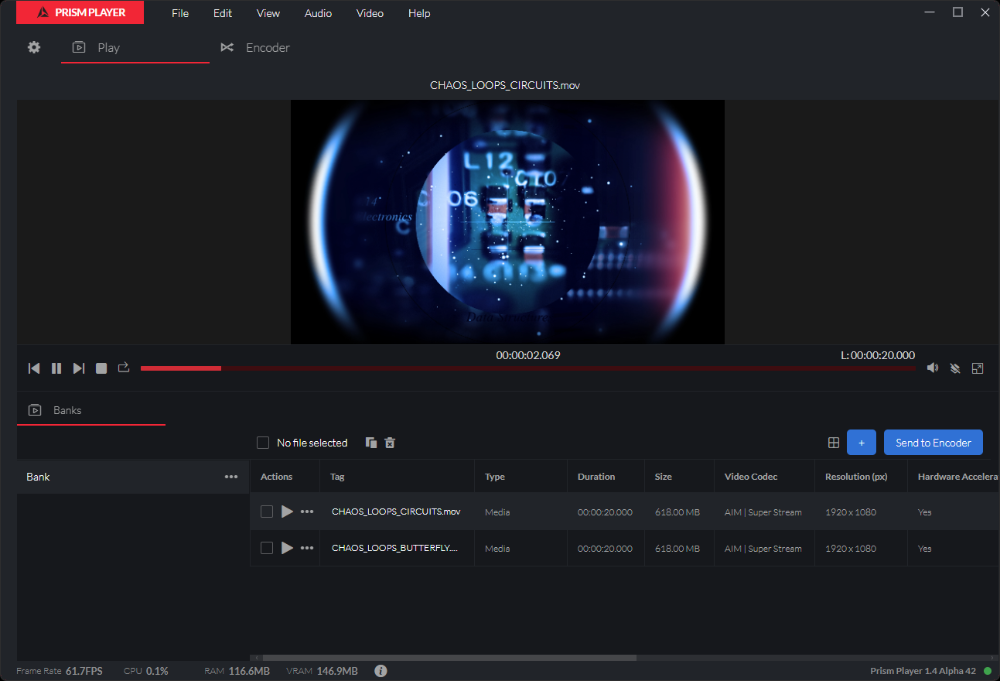
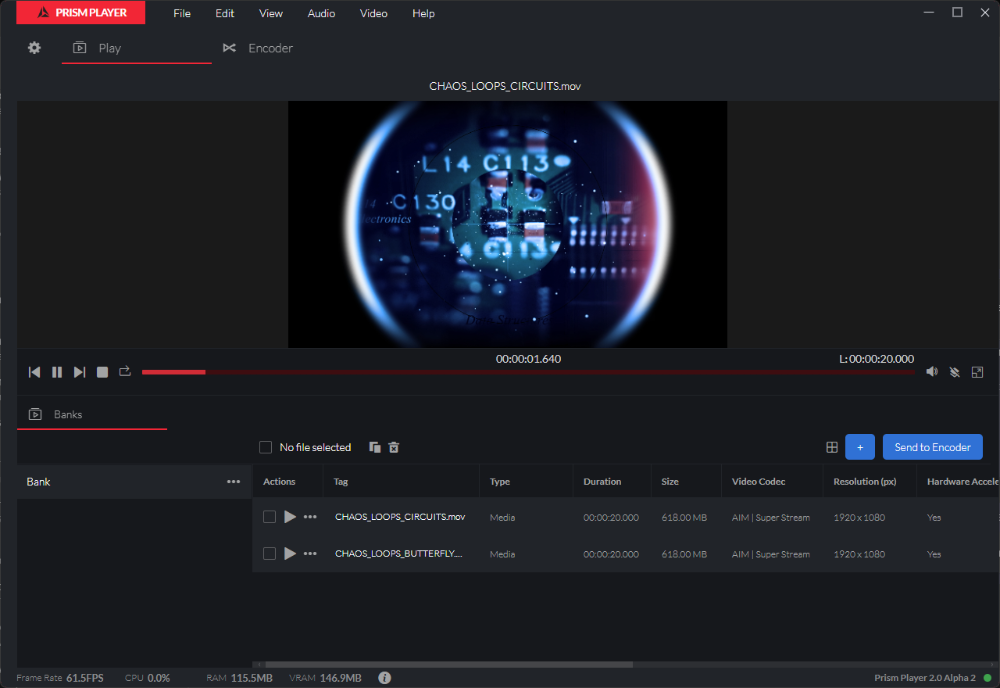
update main app images due to version number

diff --git a/parse/prism-pdf.js b/parse/prism-pdf.js
@@ -13,8 +13,8 @@ const logoPath = path.join(__dirname,"PDF/avo.png");
 let previousHeading = ""; //use to help determine when a page break should happen
 
 const docs = [
-    { sidebar: 'player', appName: 'Prism Player', version: "v2", path: 'Player' },
-    { sidebar: 'prism', appName: 'Prism', version: "v2", path: 'Prism' },
+    { sidebar: 'player', appName: 'Prism Player', version: "v2.0", path: 'Player' },
+    { sidebar: 'prism', appName: 'Prism', version: "v2.0", path: 'Prism' },
     // Add more pages as needed
 ]
 
